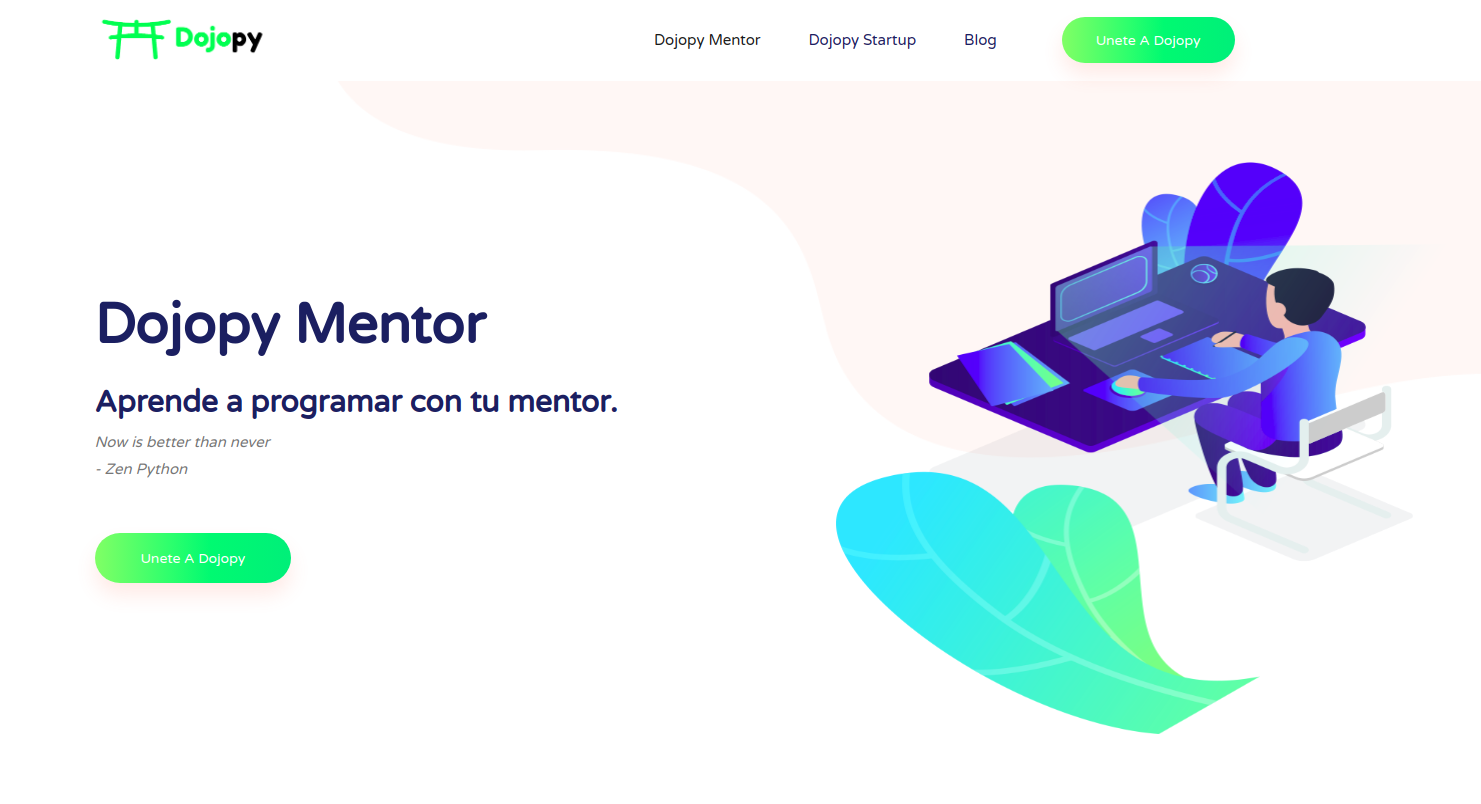
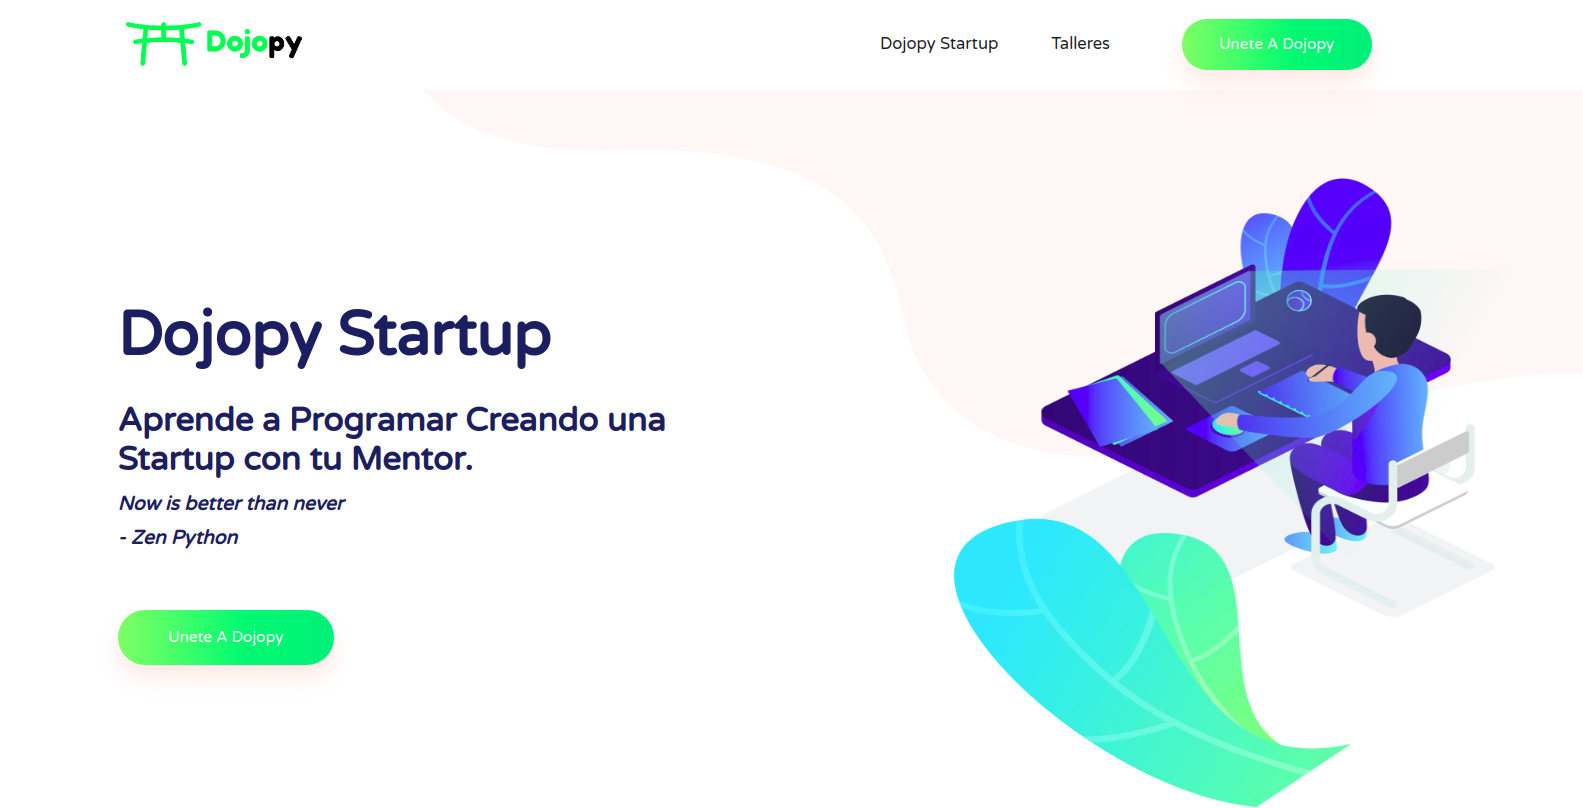
new version

diff --git a/templates/base.html b/templates/base.html
@@ -113,10 +113,10 @@
                     <div class="banner_text">
                         <div class="banner_text_iner">
                             <h1>Dojopy Startup</h1>
-                            <h2>Aprende a programar creando una Startup con tu mentor.</h2>
+                            <h2>Aprende a Programar Creando una Startup con tu Mentor.</h2>
                             <b>
-                                <p><i> Now is better than never</i> </p>
-                                <p><i> - Zen Python</i> </p>
+                                <p style="font-size:1.1rem; color:#0c2e60"><i> Now is better than never</i> </p>
+                                <p style="font-size:1.1rem; color:#0c2e60"><i> - Zen Python</i> </p>
                             </b>
                             <a href="#connect" class="btn_1">Unete a Dojopy</a>
                         </div>
@@ -213,8 +213,6 @@
                              productivo para tu proyecto, prototipando rápidamente tus ideas.<br>
                             Es por ello que es el lenguaje y stack favorito en
                             <span style="color:green">Dojo</span><span style="color:black">py</span> (<span style="color:green">Dojo</span>   + <span style="color:black">Python</span>) ❤
-
-
                         </p>
                         <!-- <a href="#" class="btn_1">Read More</a> -->
                     </div>
@@ -246,18 +244,17 @@
                 <div class="col-sm-5 col-lg-5">
                     <a href="/mentor/python-de-cero-a-ninja">
                         <div style="text-align:-webkit-center">
-                            <h3 style="font-size:1.8rem;padding:10px; color:#31de79">Programador Full Stack <br> de cero a ninja </h3>
+                            <h3 style="font-size:1.8rem;padding:10px; color:#31de79">Taller Python Full Stack  <br> (6 meses) </h3>
                         </div>
                         <div class="single_special_cource" style=" border:1px solid #9ff669;">
 
                             <img src="/static/base/img/taller-python.png" height="max-width: 100%;height: auto;" class="special_img" alt="">
                             <div class="special_cource_text">
                                 <div class="row" style="justify-content:center" >
-                                    <h3 style="font-size:1.6rem">Taller de Python</h3>
+                                    <h3 style="font-size:1.6rem">Python Full Stack <br> <p style="text-align:center;font-size:1.3rem">(6 meses)</p> </h3>
                                     <div class="col-9">
-
                                     </div>
-                                    <h4 style="font-size:1.5rem" > S/ 200.00 mensual</h4>
+                                    <h4 style="font-size:1.5rem; color:green" > S/ 200.00 mensual</h4>
                                     <div class="col-11">
                                     </div>
                                     <h5 style="font-size:1.2rem" > (pagas mes a mes)</h5>
@@ -291,6 +288,8 @@
                     <input type="text" id="username" name="name" placeholder="Tu Nombre" onfocus="this.placeholder = ''" onblur="this.placeholder = 'Tu Nombre'" required="" class="single-input" style=" border:1px solid #9ff669;" >
                     <br>
                     <input type="text" id="email" name="email" placeholder="Tu Email" onfocus="this.placeholder = ''" onblur="this.placeholder = 'Tu Email'" required="" class="single-input" style=" border:1px solid #9ff669;">
+                    <br>
+                    <input type="text" id="phone" name="phone" placeholder="Tu Telefono Móvil" onfocus="this.placeholder = ''" onblur="this.placeholder = 'Tu Telefono Móvil'" required="" class="single-input" style=" border:1px solid #9ff669;">
                     <br>
                 </div>
                 <div class="col-10">
@@ -407,12 +406,12 @@ Copyright &copy;<script>document.write(new Date().getFullYear());</script> Dojop
     <script type="text/javascript">
 
 
-    function send_contact(email, username){
+    function send_contact(email, username, phone){
              $.ajax({
                    type: "POST",
                    url : "/contact",
                    enctype: 'multipart/form-data',
-                   data: {"username": username, "email": email},
+                   data: {"username": username, "email": email, "phone": phone},
                    encode: true
                })
                .done(function(data){
@@ -428,16 +427,17 @@ Copyright &copy;<script>document.write(new Date().getFullYear());</script> Dojop
             $('#join_dojopy').on('click', function(e) {
                 email = $("#email").val()
                 username = $("#username").val()
-                if (email == ""){
-                  alert('Ingresa tu email')
+                phone =  $("#phone").val()
+                if (phone == ""){
+                  alert('Ingresa tu telefono móvil para contactarte')
                   return
                 }
-                send_contact(email, username);
+                send_contact(email, username, phone);
             });
             $('#join_dojopy_').on('click', function(e) {
-                email = $("#email_2").val()
+                email = $("#email").val()
                 if (email == ""){
-                  alert('Ingresa tu email')
+                  alert('Ingresa tu Email')
                   return
                 }
                 send_contact(email, 'anonimo');

diff --git a/templates/base/css/style.css b/templates/base/css/style.css
@@ -2769,7 +2769,7 @@ ul {
     max-width: 100%;
     max-height: 100%;
     content: "";
-    background-image: url(../img/banner_img.png);
+    background-image: url(../img/header-img.png);
     background-size: contain;
     right: 0;
     left: 0;
@@ -2787,7 +2787,7 @@ ul {
     max-width: 100%;
     max-height: 100%;
     content: "";
-    background-image: url(../img/banner_img.png);
+    background-image: url(../img/header-img.png);
     background-size: contain;
     right: 0;
     left: 0;
@@ -2804,7 +2804,7 @@ ul {
     max-width: 100%;
     max-height: 100%;
     content: "";
-    background-image: url(../img/banner_img.png);
+    background-image: url(../img/header-img.png);
     background-size: contain;
     right: 5%;
     bottom: 0;

diff --git a/startup/models.py b/startup/models.py
@@ -8,6 +8,7 @@ class ModelContact(models.Model):
     name = models.CharField(max_length=255, default='', blank=False)
     email = models.EmailField(max_length=255, blank=False)
     message = models.CharField(max_length=255, default='', blank=False)
+    phone = models.CharField(max_length=255, blank=False)
 
     def __str__(self):
-        return '{}: {}: {}'.format(self.create, self.email, self.name)
+        return '{}: {}: {}'.format(self.create, self.email, self.phone)

diff --git a/startup/migrations/0003_modelcontact_phone.py b/startup/migrations/0003_modelcontact_phone.py
@@ -1,0 +1,19 @@
+# Generated by Django 2.2.7 on 2019-11-11 01:34
+
+from django.db import migrations, models
+
+
+class Migration(migrations.Migration):
+
+    dependencies = [
+        ('startup', '0002_modelcontact_create'),
+    ]
+
+    operations = [
+        migrations.AddField(
+            model_name='modelcontact',
+            name='phone',
+            field=models.CharField(default='', max_length=255),
+            preserve_default=False,
+        ),
+    ]

diff --git a/startup/views.py b/startup/views.py
@@ -14,5 +14,6 @@ def home(request):
 def contact(request):
     name = request.POST.get('username', '')
     email = request.POST.get('email', '')
-    ModelContact.objects.get_or_create(name=name, email=email)
+    phone = request.POST.get('phone', '')
+    ModelContact.objects.get_or_create(name=name, email=email, phone=phone)
     return JsonResponse({'status': 'ok'})
